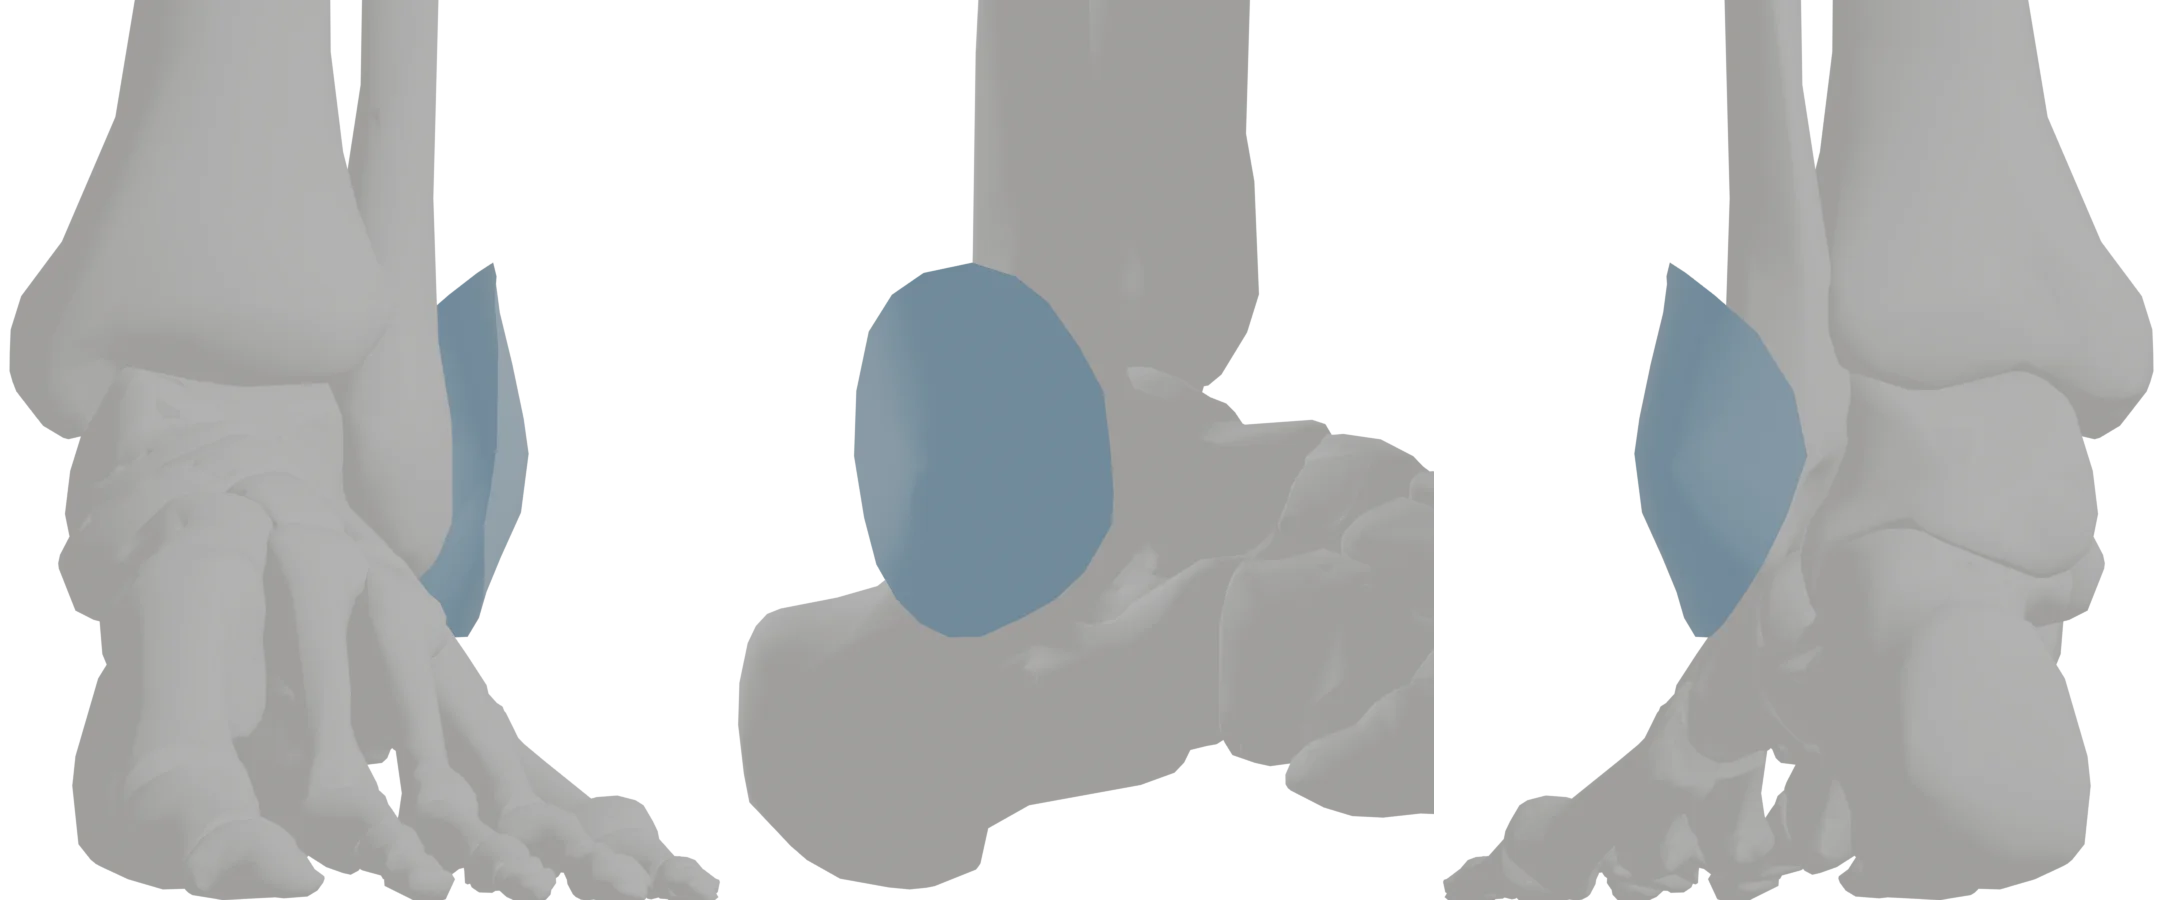
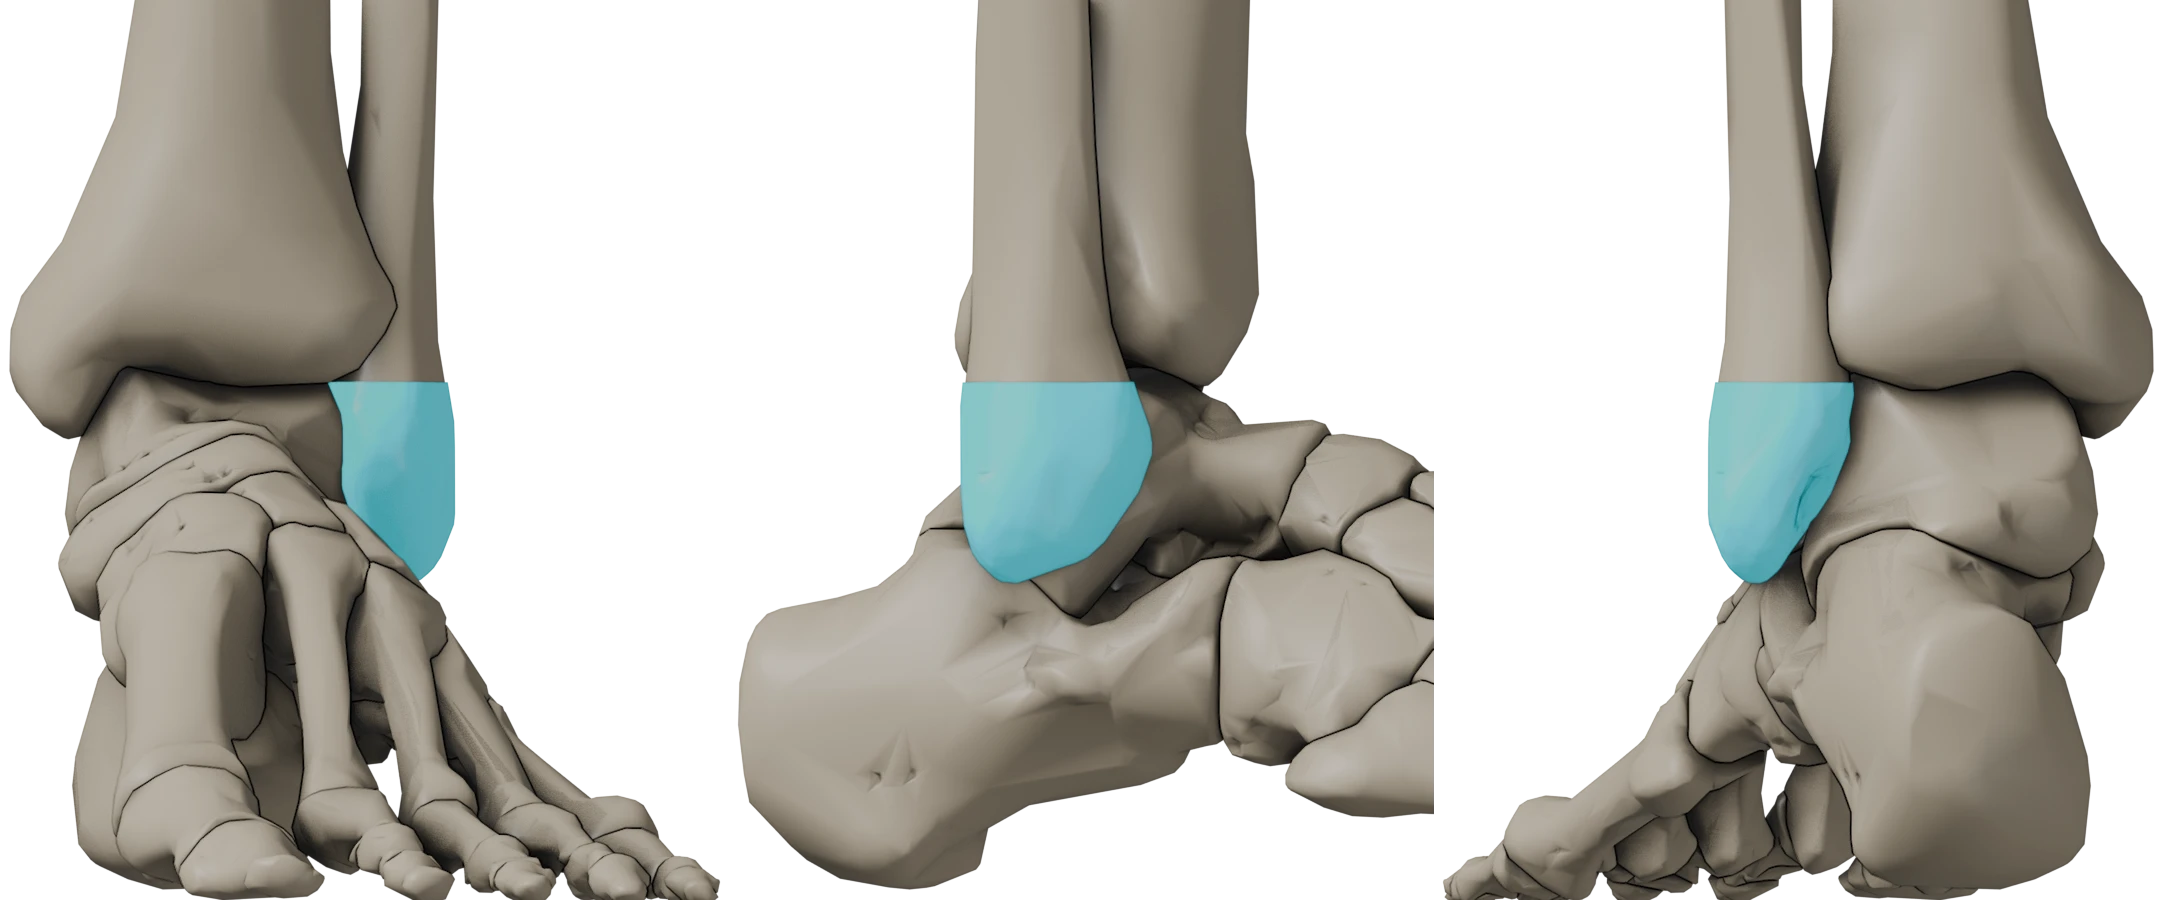
Put the malleolus highlight on the bone instead of a disc beside it
The atlas models each malleolus as a flat marker disc next to the ankle, so
the card picture highlighted a plate floating off the bone. The panels now
highlight the bone itself: the distal 28 mm of the fibula for the lateral
malleolus, and the knob of the tibia below the ankle joint for the medial.
renderMusclePanels.py takes a --regions rules file (panel-regions.rules.json)
and grows the region with the landmark pipeline's cap rule. Same cameras,
layout and sizes, so panels.generated.ts is unchanged.

diff --git a/src/scripts/blender/renderMusclePanels.py b/src/scripts/blender/renderMusclePanels.py
@@ -55,9 +55,14 @@ ap.add_argument("--look", default="studio", choices=["studio", "flat"],
                 help="'studio' is the shared plate look: boneLook's dim world, camera-fixed key and "
                      "fill, occluded ivory bone and the Workbench line pass the muscle turntables "
                      "multiply over every frame. 'flat' is the old white-world panel")
+ap.add_argument("--regions", default="",
+                help="a rules file (panel-regions.rules.json): for the ids it names, the highlight is "
+                     "a region grown on the parent bone by landmarkRegions.select_faces, and the "
+                     "mapped objects only frame the shot")
 a = ap.parse_args(argv)
 
 mapping = {m["id"]: m for m in json.load(open(a.mapping))["mapping"]}
+REGIONS = json.load(open(a.regions)) if a.regions else {}
 wanted = a.muscles.split(",")
 views = [int(v) for v in a.views.split(",")]
 elevations = [float(e) for e in a.elevations.split(",")]
@@ -301,6 +306,82 @@ def link(mesh, name, material):
     scene.collection.objects.link(ob)
 
 
+def region_mesh(object_names, rule, mesh_name):
+    """The faces of each named bone that a landmark rule picks, as one mesh.
+
+    THE ATLAS'S MALLEOLUS IS A DISC, NOT A PIECE OF BONE. "Lateral malleolus.l"
+    is a flat marker hung beside the fibula, and painted cyan it reads as a
+    plate floating off the ankle. The malleolus is the END OF THE BONE, so the
+    highlight is grown on the bone's own surface by the landmark pipeline's
+    rules (landmarkRegions.py), exactly as renderLandmarkRegions.py does it:
+    bake to world space, make the normals consistent, subdivide so the edge is
+    not a sawtooth, select, and lift the kept faces 0.4mm so they draw in front
+    of the same bone in the skeleton bake.
+
+    TWO THINGS A CARD PICTURE NEEDS THAT A TAP TARGET DOES NOT. A `cap` is cut
+    face by face, and the long thin triangles of a shaft leave its edge a row
+    of teeth, which a traced hotspot smooths away and a painted picture shows.
+    So the bone is first BISECTED on the cap's own plane and the edge is a
+    clean line. And `medialWidth` keeps only that much of the slab, measured
+    in from its most medial point, toward the midline whichever leg it is: the
+    lowest slab of the tibia is the whole rim of the plafond, and the malleolus
+    is only its medial end. keepIf cannot say that, since its axis is fixed and
+    the two legs' medial sides face opposite ways.
+    """
+    import numpy as np
+    from landmarkRegions import select_faces
+    out = bmesh.new()
+    for n in object_names:
+        src = bpy.data.objects.get(n)
+        if not src or src.type != "MESH" or not src.data.vertices:
+            continue
+        bm = bmesh.new()
+        tmp = src.data.copy()
+        for v in tmp.vertices:
+            v.co = src.matrix_world @ v.co
+        bm.from_mesh(tmp)
+        bpy.data.meshes.remove(tmp)
+        bmesh.ops.recalc_face_normals(bm, faces=bm.faces)
+        for _ in range(int(rule.get("subdivide", 2))):
+            bmesh.ops.subdivide_edges(bm, edges=list(bm.edges), cuts=1, use_grid_fill=True)
+        medial_cut = None
+        if rule.get("kind") == "cap" and not isinstance(rule["direction"], str):
+            d = mathutils.Vector(rule["direction"]).normalized()
+            reach = max(v.co.dot(d) for v in bm.verts) - float(rule["depth"])
+            bmesh.ops.bisect_plane(bm, geom=list(bm.verts) + list(bm.edges) + list(bm.faces),
+                                   plane_co=d * reach, plane_no=d, dist=1e-6)
+            if rule.get("medialWidth"):
+                cx = sum(v.co.x for v in bm.verts) / len(bm.verts)
+                m = mathutils.Vector((-1.0 if cx > 0 else 1.0, 0.0, 0.0))
+                edge = max(v.co.dot(m) for v in bm.verts if v.co.dot(d) >= reach) - float(rule["medialWidth"])
+                bmesh.ops.bisect_plane(bm, geom=list(bm.verts) + list(bm.edges) + list(bm.faces),
+                                       plane_co=m * edge, plane_no=m, dist=1e-6)
+                medial_cut = (m, edge)
+        bm.faces.ensure_lookup_table()
+        bm.verts.ensure_lookup_table()
+        faces = list(bm.faces)
+        index = {f: i for i, f in enumerate(faces)}
+        adjacency = [[index[o] for e in f.edges for o in e.link_faces if o is not f] for f in faces]
+        mask, _ = select_faces([v.co.copy() for v in bm.verts], [v.normal.copy() for v in bm.verts],
+                               [f.calc_center_median() for f in faces], [f.normal.copy() for f in faces],
+                               rule, {}, adjacency)
+        if medial_cut:
+            mask &= np.array([f.calc_center_median().dot(medial_cut[0]) >= medial_cut[1] for f in faces])
+        print(f"[region] {mesh_name}: {int(mask.sum())}/{len(faces)} faces on {n}", flush=True)
+        bmesh.ops.delete(bm, geom=[f for i, f in enumerate(faces) if not mask[i]], context="FACES")
+        for v in bm.verts:
+            v.co = v.co + v.normal * 0.0004
+        part = bpy.data.meshes.new(mesh_name + "_part")
+        bm.to_mesh(part)
+        bm.free()
+        out.from_mesh(part)
+        bpy.data.meshes.remove(part)
+    mesh = bpy.data.meshes.new(mesh_name)
+    out.to_mesh(mesh)
+    out.free()
+    return mesh
+
+
 skel = bpy.data.collections.get("1: Skeletal system")
 # Z-Anatomy titles each top-level collection with a text mesh — "Skeletal
 # system.g", "Muscular system.g", "Joints.g" — and it lives INSIDE the
@@ -412,6 +493,21 @@ for mid in wanted:
                 bmin, bmax = smin, smax
                 print(f"[frame] {mid}: framed on one side", flush=True)
         bpy.data.meshes.remove(side_mesh)
+
+    # A region on the bone replaces the atlas's marker as what is PAINTED; the
+    # marker above still frames the shot, so the layout does not move.
+    region = REGIONS.get(mid)
+    if isinstance(region, dict) and region.get("rule"):
+        parents = region["parentObjects"]
+        if framed_side:
+            parents = [o for o in parents if o.endswith(framed_side)] or parents
+        grown = region_mesh(parents, region["rule"], f"panel_{mid}_region")
+        if len(grown.vertices) == 0:
+            print(f"[warn] {mid}: region rule selected nothing, keeping the mapped objects", flush=True)
+            bpy.data.meshes.remove(grown)
+        else:
+            bpy.data.meshes.remove(mesh)
+            mesh = grown
 
     for elev in elevations:
         for frame in views:
